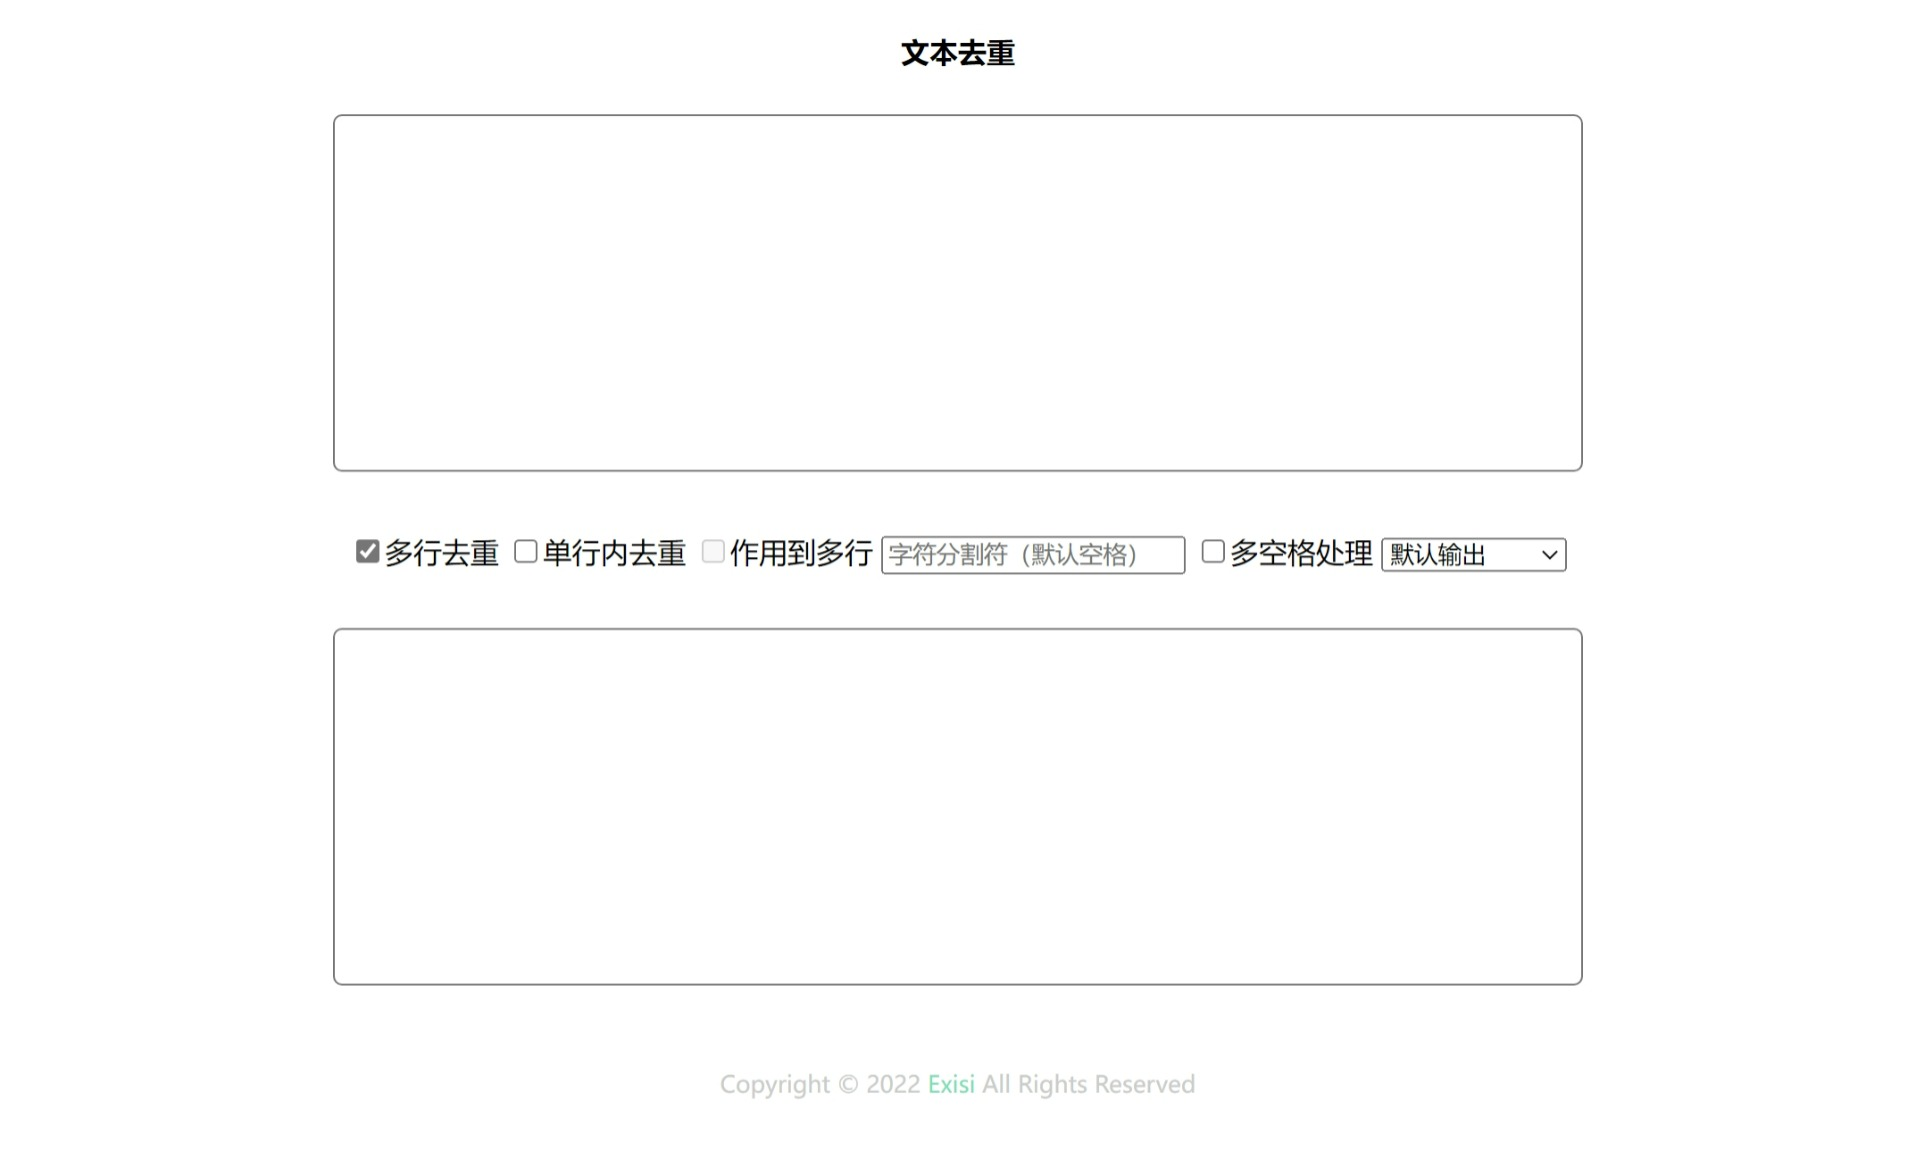
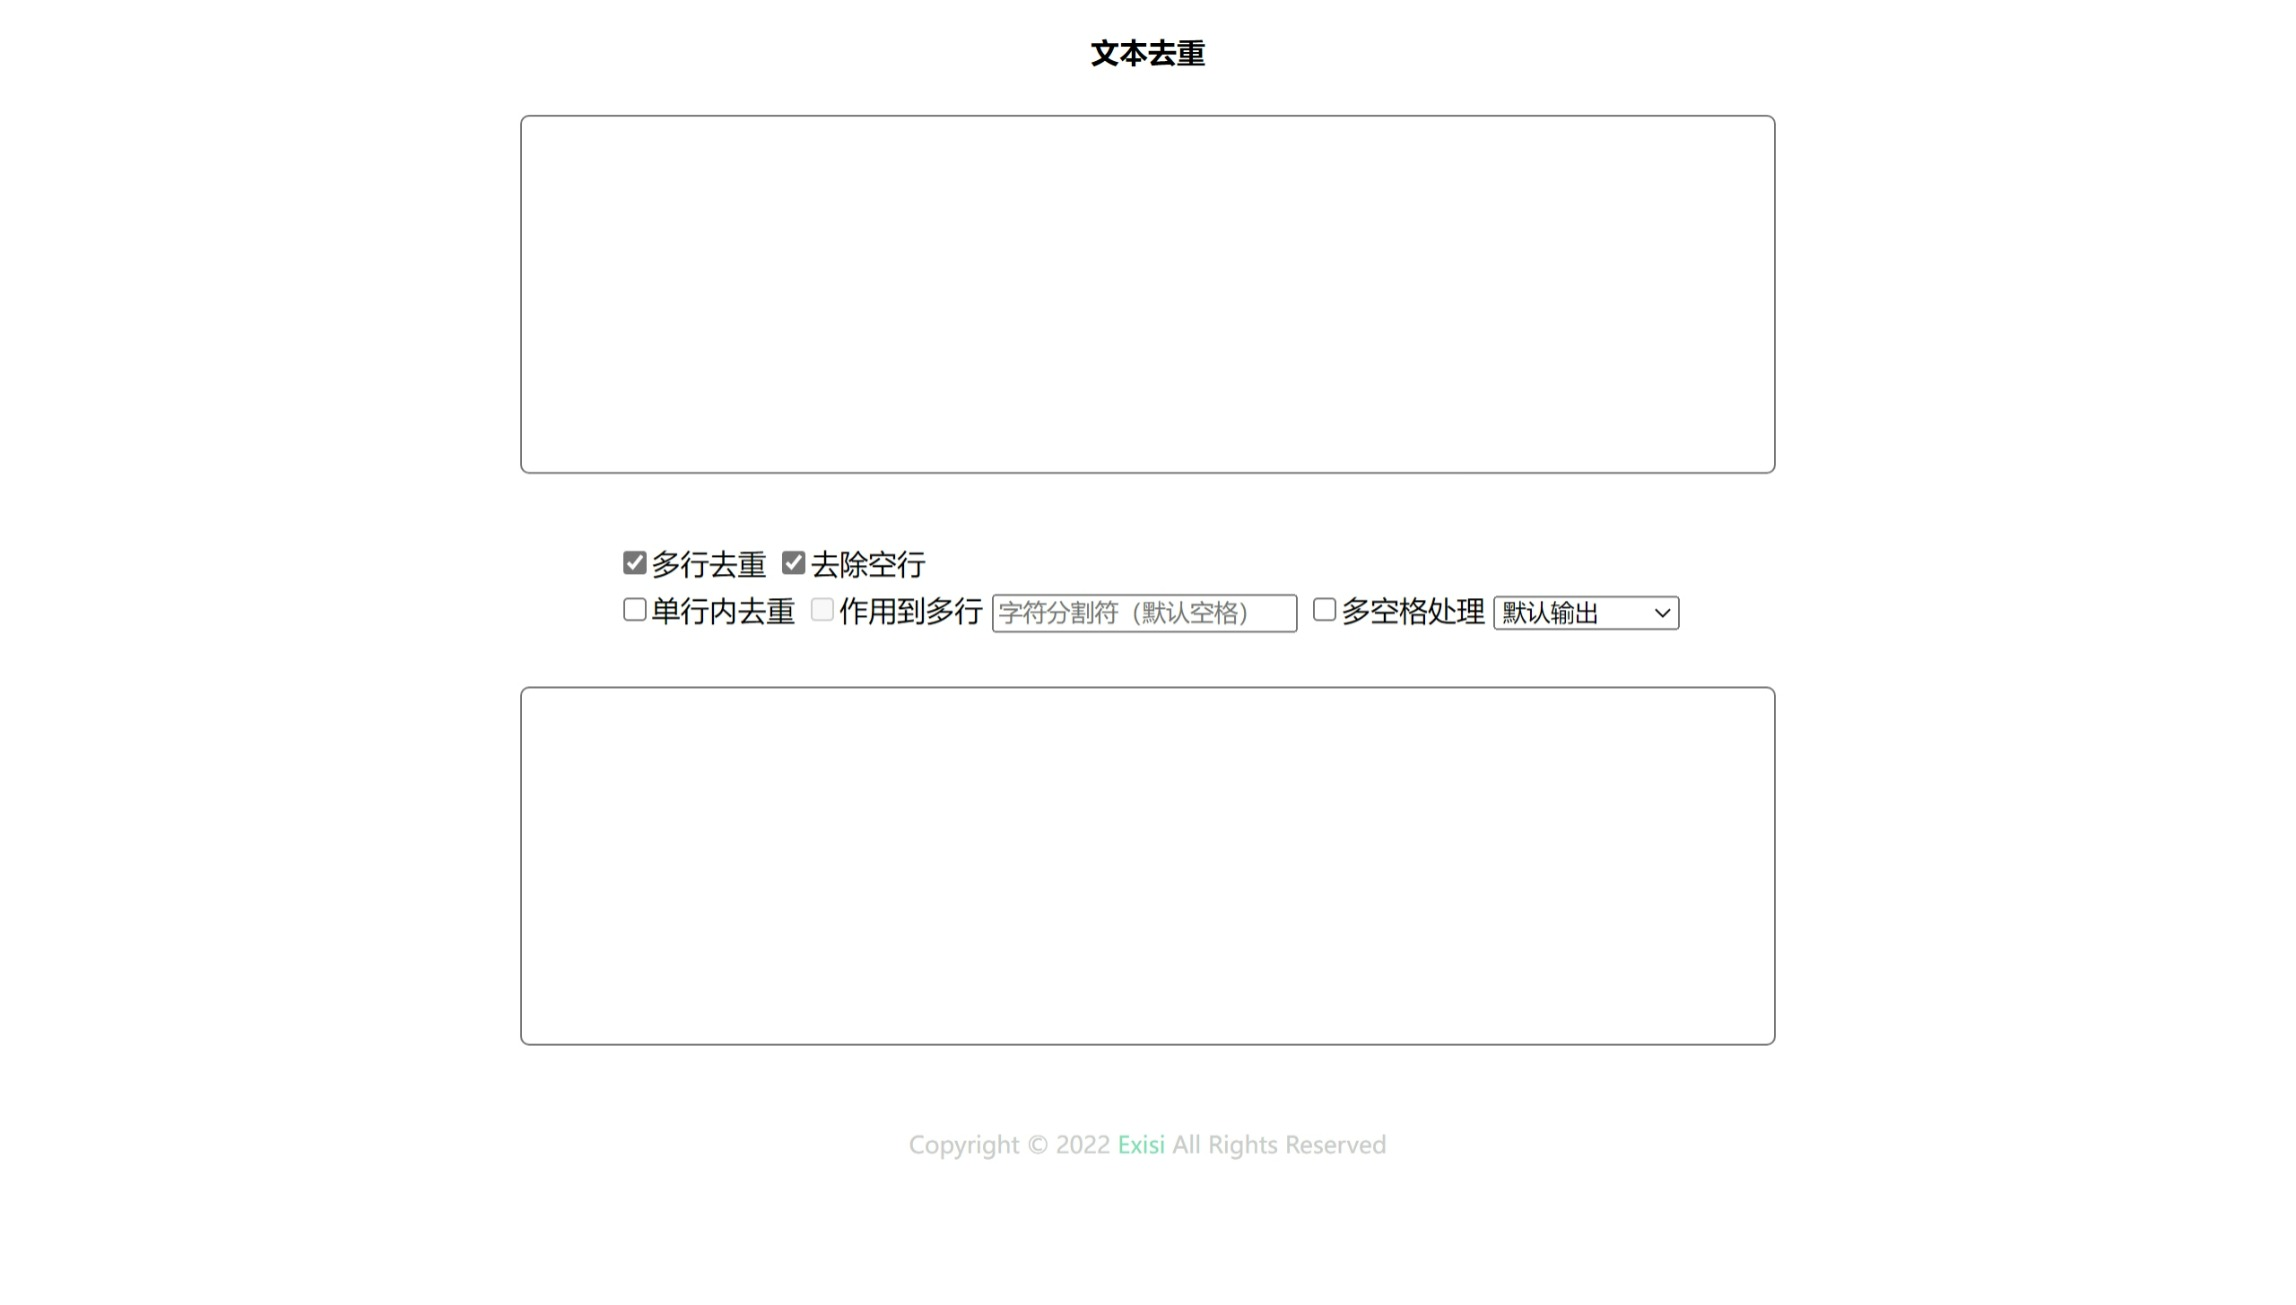
Add files via upload

diff --git a/deduplicate.js b/deduplicate.js
@@ -1,18 +1,20 @@
 (function () {
     let getConfig = () => {
-        let check = document.querySelectorAll(".rule");
+        let row = document.querySelectorAll(".row-rule");
+        let inline = document.querySelectorAll(".inline-rule");
         let split = document.getElementById("split");
         let type = document.getElementById("output-type");
-        check[2].disabled = true;
+        inline[1].disabled = true;
         let config = {
-            line: check[0].checked,
-            inline: check[1].checked,
-            toRow: check[2].checked,
-            blank: check[3].checked,
+            line: row[0].checked,
+            rblank: row[1].checked,
+            inline: inline[0].checked,
+            toRow: inline[1].checked,
+            blank: inline[2].checked,
             split: split.value != "" ? split.value : " ",
             type: type.value,
         };
-        if (config.inline) check[2].disabled = false;
+        if (config.inline) inline[1].disabled = false;
         return config;
     }
 
@@ -80,11 +82,22 @@
         return v;
     }
 
+    let textRemoveBlankRow = (v) => {
+        let rowlist = [];
+        let list = v.split("\n");
+        for (const i in list) {
+            if (list[i] != "") rowlist.push(list[i]);
+        }
+        v = rowlist.join("\n");
+        return v;
+    }
+
     let modelSetting = (v, c) => {
         if (c.inline) v = textFormatByInLine(v, c.split);
         if (c.line) v = textFormatByLine(v);
         if (c.toRow && c.inline) v = textFormatToAllRow(v, c.split);
         if (c.blank) v = textRemoveMutiBlank(v, c.split);
+        if (c.rblank) v = textRemoveBlankRow(v);
         if (c.type == 1) {
             v = v.replaceAll("\n", c.split).replaceAll(/(\x20)+/g, " ");
             if (c.inline) v = textFormatByInLine(v, c.split);
@@ -107,26 +120,24 @@
         }
         outText.innerHTML = modelSetting(v, config);
     }
+
     let timer;
-    let input = document.getElementById("input");
-    input.addEventListener("keydown", () => {
-        clearTimeout(timer);
-        timer = setTimeout(() => {
-            setText();
-        }, 100)
-    });
-    let check = document.querySelectorAll(".rule,.select");
-    check[2].disabled = true;
-    check.forEach(e => {
-        e.addEventListener("click", () => {
-            setText();
+    let input = document.querySelectorAll("#input,.split");
+    input.forEach(e => {
+        e.addEventListener("keydown", () => {
+            clearTimeout(timer);
+            timer = setTimeout(() => {
+                setText();
+            }, 100)
         });
     });
-    let insplit = document.getElementById("split");
-    insplit.addEventListener("keydown", () => {
-        clearTimeout(timer);
-        timer = setTimeout(() => {
-            setText();
-        }, 100)
+
+    let inline = document.getElementsByClassName("inline-rule")[1];
+    inline.disabled = true;
+
+    let container = document.getElementById("center");
+    container.addEventListener("click", (e) => {
+        let tag = e.target.tagName.toLowerCase();
+        if (tag == "input" || tag == "select") setText();
     });
 }());

diff --git a/index.html b/index.html
@@ -15,16 +15,17 @@
         <textarea name="input_text" id="input" class="text" cols="30" rows="10"></textarea>
     </div>
     <div id="center">
-        <span>
-            <input type="checkbox" name="line" class="rule" checked>多行去重
+        <span class="row">
+            <input type="checkbox" name="line" class="row-rule" checked>多行去重
+            <input type="checkbox" name="row-blank" class="row-rule" checked>去除空行
         </span>
         <sapn class="in">
-            <input type="checkbox" name="inline" class="rule">单行内去重
-            <input type="checkbox" name="torow" class="rule">作用到多行
+            <input type="checkbox" name="inline" class="inline-rule">单行内去重
+            <input type="checkbox" name="torow" class="inline-rule">作用到多行
         </sapn>
         <input type="text" id="split" name="split" class="split" placeholder="字符分割符（默认空格）">
         <sapn>
-            <input type="checkbox" name="blank" class="rule blank">多空格处理
+            <input type="checkbox" name="blank" class="inline-rule blank">多空格处理
         </sapn>
         <select name="type" id="output-type" class="in select">
             <option value="0">默认输出</option>

diff --git a/style.css b/style.css
@@ -33,6 +33,11 @@ h4 {
     box-sizing: border-box;
 }
 
+.row{
+    display: block;
+    margin: 5px 0;
+}
+
 .footer {
     padding: 15px 20px 10px 20px;
     text-align: center;

diff --git a/README.md b/README.md
@@ -3,7 +3,7 @@
 ![UText](https://github.com/Exisi/UText/blob/main/img/show.jpg?raw=true)
 
 ### 功能
-此工具根据分割词进行去重，支持以下功能
+此工具根据分割词进行去重，最大程度的保留每行的原有格式，支持以下功能
 - 单行/多行/全局去重
-- 去除空白
+- 去除空白，去除空行
 - 格式化输出
